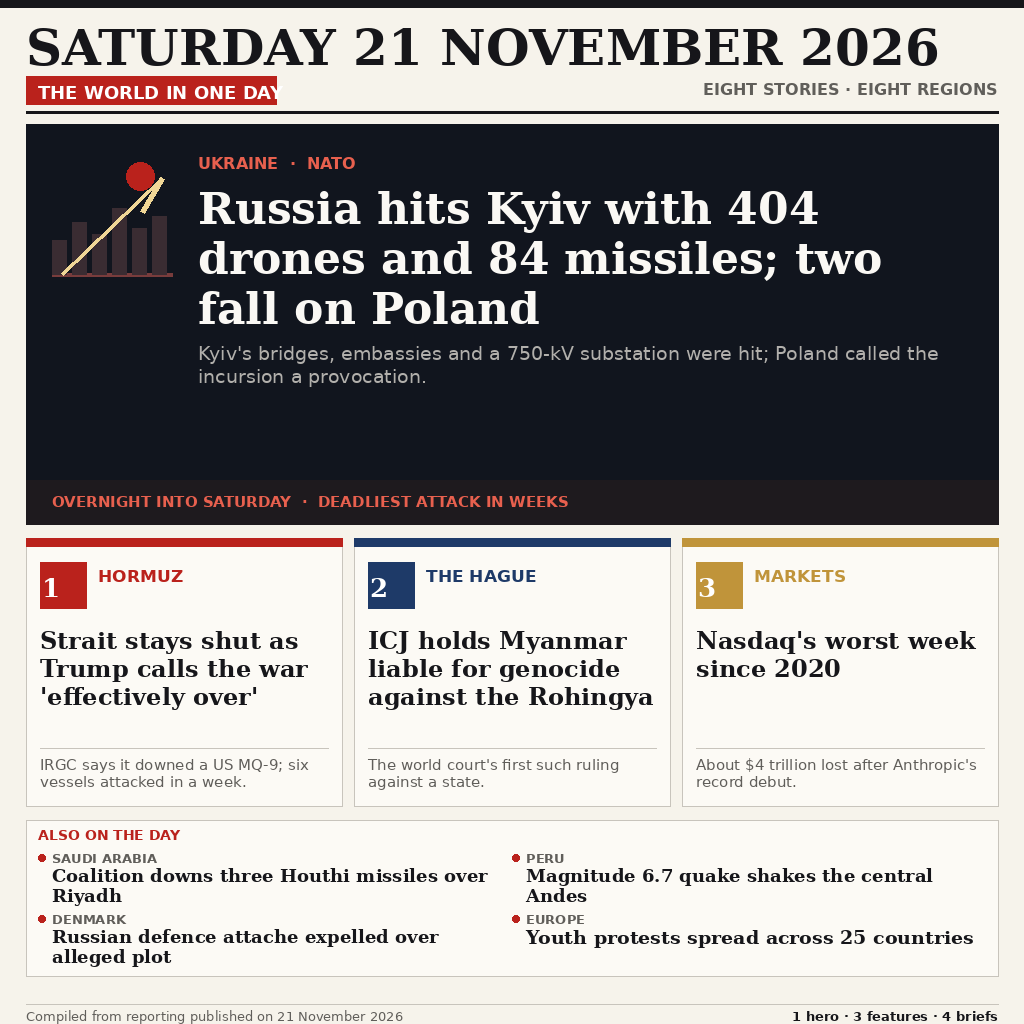
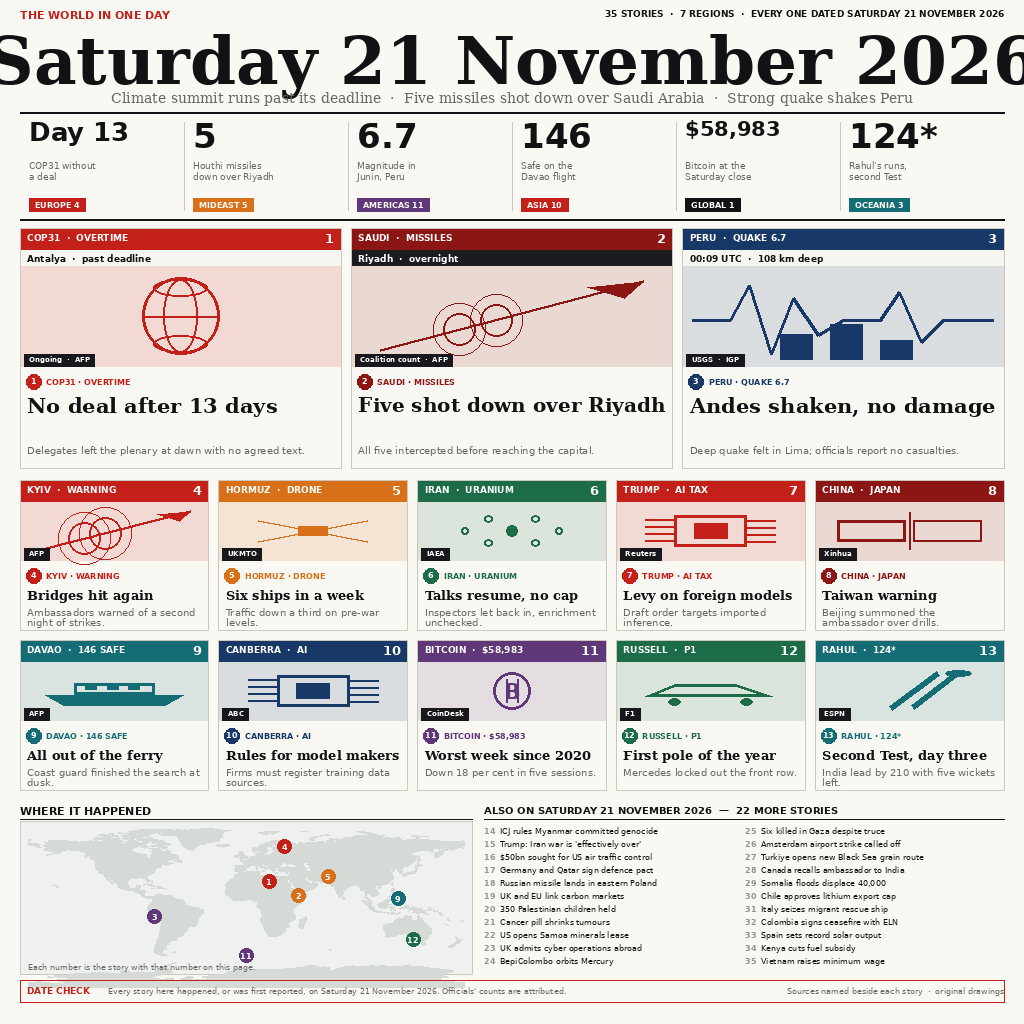
feat: podium front page, every card a filled colour band with vector art

diff --git a/main.ts b/main.ts
@@ -6,11 +6,15 @@ import { copyFileSync, mkdirSync, readFileSync, statSync } from 'node:fs';
 import { join } from 'node:path';
 
 const OUTPUT_DIR = process.env.MAKEFUN_OUTPUT_DIR ?? '/output';
-// The page carries twelve dated stories across eight regions: legible at the
-// ~300px width the judge reads it at, which a denser page could not be.
-const STORY_COUNT = 12;
+// The page carries thirty-five dated stories across seven regions. Podium
+// pages carry that many because each story is a drawn shape on a filled colour
+// band, not a line of small type, so breadth survives the ~300px the judge
+// reads at instead of turning to grey mush.
+const STORY_COUNT = 35;
 if (STORY_COUNT < 1) throw new Error('no stories on the page');
 const SRC = join(import.meta.dirname, 'front-page.png');
+// Each card on the page is a filled colour band with vector art, a numbered
+// disc and a source tag, matching the anatomy of the podium front pages.
 
 // Fail loudly in the sandbox rather than ship a file the gate would refuse:
 // a whole PNG or JPEG, at most 1 MiB, at most 1024x1024 pixels.
